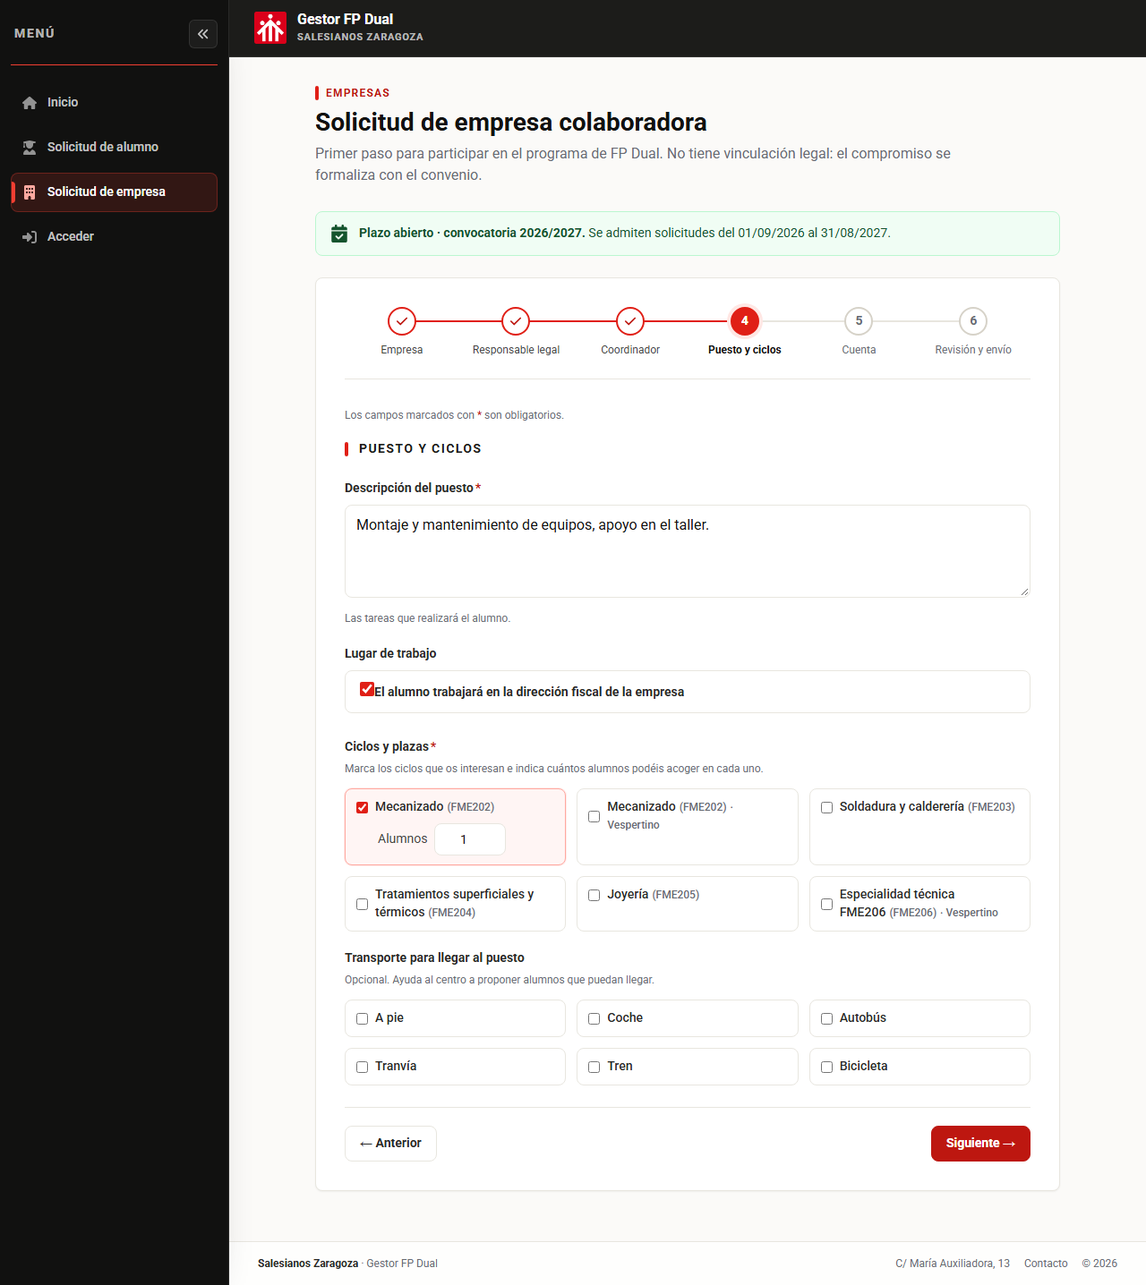
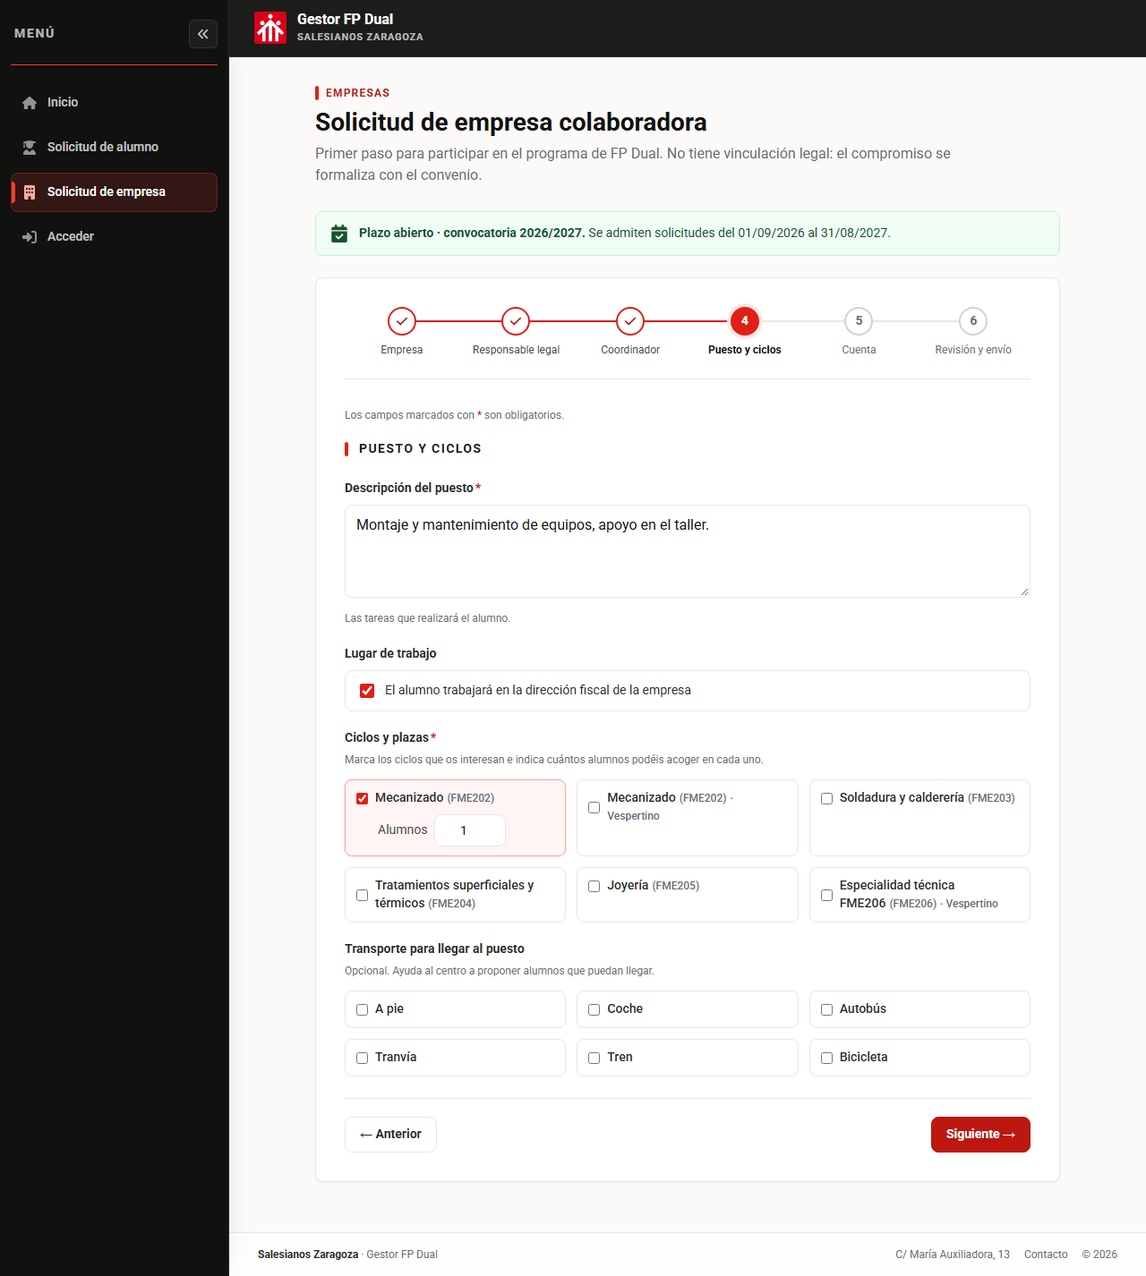
docs: manual and state transitions for baja, company review and student password reset; issues log updated

diff --git a/docs/MANUAL_DE_USUARIO.md b/docs/MANUAL_DE_USUARIO.md
@@ -19,7 +19,7 @@ _Versión del manual: 27/10/2026. Describe la aplicación tal y como funciona en
 4. [Solicitudes públicas (alumnos y empresas nuevos)](#solicitudes-publicas)
    - [Comprobar si el plazo está abierto](#plazo) · [Solicitud de alumno](#solicitud-alumno) · [Solicitud de empresa](#solicitud-empresa) · [Después de enviar](#despues-enviar)
 5. [Manual del administrador](#administrador)
-   - [Panel](#panel) · [Convocatorias](#convocatorias) · [Alumnos](#staff-alumnos) · [Empresas](#staff-empresas) · [Reservas](#staff-reservas) · [Documentos](#staff-documentos) · [Plantillas](#plantillas) · [Cuentas y contraseñas](#cuentas)
+   - [Panel](#panel) · [Convocatorias](#convocatorias) · [Alumnos](#staff-alumnos) · [Empresas](#staff-empresas) · [Reservas](#staff-reservas) · [Documentos](#staff-documentos) · [Plantillas](#plantillas) · [Cuentas y contraseñas](#cuentas) · [Dar de baja](#baja)
 6. [Manual del coordinador](#coordinador)
 7. [Manual de empresa](#empresa)
    - [Portal de la empresa](#portal-empresa) · [Datos y cambios](#empresa-datos) · [Ciclos y plazas](#empresa-plazas) · [Tutores](#empresa-tutores) · [Alumnos disponibles y reservas](#empresa-reservar) · [Documentos y firmas](#empresa-documentos) · [Nueva convocatoria](#empresa-reaplicar)
@@ -194,6 +194,7 @@ Los estados se muestran con etiquetas de color: **verde** = correcto o terminado
 | Pendiente de revisión | El centro todavía no la ha revisado. |
 | Validada | Aceptada. El alumno ya puede ser reservado o la empresa ya puede reservar. |
 | Rechazada | No aceptada. Se muestra el motivo. |
+| Dada de baja | Administración la ha retirado del programa. Su cuenta del portal está desactivada ([más información](#baja)). |
 
 **Reservas**
 
@@ -418,6 +419,13 @@ En **«Estado de la solicitud»**:
 
 Una vez validado, el alumno aparece en «Alumnos disponibles» para las empresas de su ciclo.
 
+#### Cuenta y participación — 🔒 Solo Administración
+
+Debajo del estado, Administración ve el bloque **«Cuenta y participación»**: el usuario del portal (el DNI/NIE) y si la cuenta está activa. Desde aquí puede **«Resetear contraseña»** ([cómo funciona](#cuentas)) y **«Dar de baja»** o **«Reactivar»** al alumno ([cómo funciona](#baja)).
+
+![Bloque Cuenta y participación de un alumno con los botones Resetear contraseña y Dar de baja](manual/imagenes/alumno-cuenta-baja.png)
+_Bloque «Cuenta y participación», visible solo para Administración._
+
 #### Reabrir una solicitud rechazada
 
 Si una solicitud se rechazó por error o el alumno ha corregido el problema, pulsa **«Reabrir solicitud»**. El motivo es opcional. La solicitud vuelve a **Pendiente de revisión**. Solo se puede reabrir en la **convocatoria activa**.
@@ -450,7 +458,7 @@ _Pestaña «Información» de una empresa._
 
 #### Validar la empresa: el convenio
 
-La solicitud de una empresa **se valida al validar su convenio firmado**. No hay un botón aparte para validar la empresa.
+La solicitud de una empresa **se valida al validar su convenio firmado**: es el camino normal.
 
 1. Despliega la tarjeta. En **«Convenio»** verás su estado: «Convenio pendiente de generar», «Convenio pendiente de validar» o «Convenio validado».
 2. Pulsa **«Ver convenio»** (o **«✓ Validar»**) para abrirlo.
@@ -458,6 +466,18 @@ La solicitud de una empresa **se valida al validar su convenio firmado**. No hay
 4. Si no es correcto, pulsa **«Rechazar convenio»** y escribe el motivo. La empresa tendrá que subir uno nuevo. **La solicitud de la empresa no cambia de estado.**
 
 Si aparece «Convenio pendiente de generar», hay que generarlo desde [Documentos](#staff-documentos) (necesita una [plantilla](#plantillas) activa).
+
+#### Estado de la solicitud: rechazar, reabrir o validar
+
+Debajo del convenio está el bloque **«Estado de la solicitud»**, con la etiqueta del estado:
+
+- **«Rechazar solicitud»** (solicitudes pendientes): rechaza la participación de la empresa en esta convocatoria, no solo el convenio. Hay que escribir un motivo, que la empresa verá en su portal. Una empresa rechazada no puede reservar alumnos.
+- **«Reabrir solicitud»** (solicitudes rechazadas, solo en la convocatoria activa): vuelve a «Pendiente de revisión». El motivo es opcional.
+- **«Validar solicitud»**: solo aparece si el convenio ya está validado pero la solicitud sigue pendiente.
+- 🔒 **Solo Administración**: **«Dar de baja»** o **«Reactivar»** ([cómo funciona](#baja)).
+
+![Bloque Estado de la solicitud de una empresa validada, con el botón Dar de baja](manual/imagenes/empresa-estado-solicitud.png)
+_«Estado de la solicitud» de una empresa, visto por Administración._
 
 #### Editar los datos de una empresa
 
@@ -626,9 +646,46 @@ _Plantillas vistas por Administración (en este ejemplo todavía no hay ninguna 
 ### 5.8 Cuentas y contraseñas
 
 - Las **cuentas de alumnos y empresas se crean solas** al enviar la solicitud pública. No hay una pantalla para crear cuentas a mano.
-- 🔒 **Solo Administración** puede restablecer la contraseña de una **empresa**, desde su tarjeta en Empresas ([cómo](#staff-empresas)).
-- La aplicación **no tiene** una pantalla para restablecer la contraseña de un **alumno** ni del personal del centro. Si un alumno la olvida, consulta con el responsable técnico de la aplicación.
+- 🔒 **Solo Administración** puede restablecer contraseñas:
+  - de una **empresa**, en su tarjeta de Empresas, bloque «Credenciales de acceso» ([cómo](#staff-empresas));
+  - de un **alumno**, en su tarjeta de Alumnos, bloque «Cuenta y participación».
+
+  En los dos casos pulsa **«Resetear contraseña»**. La contraseña temporal se muestra **una sola vez y durante 2 minutos**: cópiala y comunícasela a la persona por un medio seguro. Al entrar tendrá que [cambiarla](#contrasena-temporal).
+- La aplicación **no tiene** una pantalla para restablecer la contraseña del personal del centro. Si alguien del centro la olvida, consulta con el responsable técnico de la aplicación.
 - Cada persona puede [cambiar su propia contraseña](#cambiar-contrasena).
+
+<a id="baja"></a>
+
+### 5.9 Dar de baja a un alumno o a una empresa — 🔒 Solo Administración
+
+Sirve para **retirar del programa** a un alumno o a una empresa en una convocatoria: por ejemplo, un alumno que abandona el ciclo o una empresa que ya no puede acoger alumnos.
+
+**Qué pasa al dar de baja**
+
+1. La solicitud pasa a **«Dada de baja»**.
+2. Su **cuenta del portal se desactiva**: no podrá entrar (si tenía la sesión abierta, se cierra en cuanto haga algo). En una empresa se desactivan todas sus cuentas.
+3. **Todas sus reservas activas, pendientes y confirmadas, se cancelan** con el motivo de la baja. Las plazas quedan libres y se avisa por correo a la otra parte: a las empresas, si se da de baja un alumno; a los alumnos, si se da de baja una empresa.
+
+**Cómo se hace**
+
+1. Despliega la tarjeta del alumno (Alumnos › «Cuenta y participación») o de la empresa (Empresas › «Estado de la solicitud»).
+2. Pulsa **«Dar de baja»**. La ventana muestra **qué reservas se cancelarán**; las confirmadas se marcan en rojo.
+3. Escribe el **«Motivo de la baja»** (obligatorio) y pulsa **«Dar de baja»**.
+
+El aviso final indica cuántas reservas se han cancelado. Si alguna no se ha podido cancelar, el aviso lo dice: cancélala a mano desde su panel ([Cancelar una reserva](#staff-reservas)).
+
+![Ventana Dar de baja al alumno con la reserva confirmada que se cancelará y el campo Motivo de la baja](manual/imagenes/dar-de-baja.png)
+_Antes de confirmar, la ventana muestra las reservas que se van a cancelar._
+
+**Reactivar**
+
+En una solicitud dada de baja se ven la fecha, el motivo y el botón **«Reactivar»**. Al reactivar:
+
+- la solicitud **vuelve al estado que tenía antes de la baja** (pendiente, validada o rechazada);
+- la cuenta del portal se vuelve a activar;
+- las **reservas canceladas no se recuperan**: si hace falta, hay que crearlas de nuevo.
+
+Las solicitudes dadas de baja se encuentran con el filtro **«Solicitud: Dada de baja»** en Alumnos y en Empresas.
 
 ---
 
@@ -644,17 +701,20 @@ El perfil de Coordinación hace **el mismo trabajo diario** que Administración:
 | Validar y rechazar documentos y solicitudes; reabrir solicitudes | ✅ | ✅ |
 | Gestionar reservas: tipo de contrato, firmas, confirmar, cancelar, reasignar | ✅ | ✅ |
 | Editar datos de empresas, aprobar o rechazar cambios, cambiar plazas | ✅ | ✅ |
+| Rechazar y reabrir solicitudes de empresa | ✅ | ✅ |
 | Consultar convocatorias | ✅ | ✅ |
 | **Crear y editar convocatorias** | ✅ | ❌ |
 | Consultar y descargar plantillas | ✅ | ✅ |
 | **Subir o reemplazar plantillas** | ✅ | ❌ |
-| **Restablecer contraseñas de empresas** | ✅ | ❌ |
+| **Restablecer contraseñas de empresas y alumnos** | ✅ | ❌ |
+| **Dar de baja y reactivar alumnos y empresas** | ✅ | ❌ |
 
 En la práctica, el coordinador:
 
 - En **Convocatorias** solo ve la lista, sin el formulario «Nueva convocatoria» ni el botón «Editar».
 - En **Documentos › Plantillas** no tiene el botón «Subir plantilla».
-- En las tarjetas de **Empresas** no tiene el botón «Resetear contraseña».
+- En las tarjetas de **Empresas** no tiene «Resetear contraseña» ni «Dar de baja».
+- En las tarjetas de **Alumnos** no ve el bloque «Cuenta y participación».
 
 Si necesitas una de estas acciones, pídesela a Administración.
 
@@ -994,7 +1054,13 @@ Cada perfil solo ve y cambia lo que le corresponde. Si no ves un botón o te apa
 
 - Las empresas no ven las reservas de otras empresas ni el Anexo DGA de los alumnos.
 - Los alumnos no pueden modificar sus datos personales.
-- Coordinación no puede crear convocatorias, subir plantillas ni restablecer contraseñas.
+- Coordinación no puede crear convocatorias, subir plantillas, restablecer contraseñas ni dar de baja.
+
+### Me han dado de baja / ya no puedo entrar
+
+Si el centro te ha **dado de baja** del programa, tu cuenta del portal está desactivada y al entrar verás «La cuenta está desactivada. Contacte con el administrador.» Tus reservas activas se han cancelado. Si crees que es un error, ponte en contacto con el centro: Administración puede **reactivar** tu solicitud, pero las reservas canceladas no vuelven solas.
+
+**¿Qué pasa con las reservas de una empresa dada de baja?** Se cancelan todas. Si eres un alumno afectado, recibirás un aviso y **tu solicitud sigue abierta** para otras empresas.
 
 <a id="faq-contrasena"></a>
 
@@ -1003,7 +1069,8 @@ Cada perfil solo ve y cambia lo que le corresponde. Si no ves un botón o te apa
 No hay recuperación automática por correo.
 
 - **Empresas**: pedid al centro que Administración restablezca la contraseña. Os dará una contraseña temporal que tendréis que [cambiar al entrar](#contrasena-temporal).
-- **Alumnos y personal del centro**: contacta con el centro. La aplicación no tiene una pantalla para restablecer estas contraseñas, así que la solución depende del responsable técnico.
+- **Alumnos**: pide al centro que Administración te restablezca la contraseña. Te dará una temporal que tendrás que cambiar al entrar.
+- **Personal del centro**: la aplicación no tiene una pantalla para restablecer vuestras contraseñas; consulta con el responsable técnico.
 
 ### Otras dudas habituales
 
@@ -1012,4 +1079,4 @@ No hay recuperación automática por correo.
 - **Mi solicitud de empresa sigue pendiente aunque he subido el convenio.** Se valida cuando el centro **valida** el convenio, no al subirlo. Si el centro lo rechaza, veréis el motivo y tendréis que subir uno nuevo.
 - **El alumno es menor de edad.** El formulario pide los datos del tutor o tutora legal en el paso «Datos personales».
 - **Han regenerado un anexo que ya había firmado.** Al regenerarlo se crea una versión nueva y hay que volver a firmarla.
-- **¿Una solicitud rechazada se puede recuperar?** En los alumnos, el centro puede reabrirla durante la convocatoria activa. Si es tu caso, contacta con el centro.
+- **¿Una solicitud rechazada se puede recuperar?** Sí: el centro puede reabrirla durante la convocatoria activa, tanto la de un alumno como la de una empresa. Si es tu caso, contacta con el centro.

diff --git a/docs/manual/INCIDENCIAS_DETECTADAS.md b/docs/manual/INCIDENCIAS_DETECTADAS.md
@@ -1,26 +1,27 @@
 # Incidencias detectadas al redactar el manual
 
-_27/10/2026 · rama `phase-5-design-polish`. Revisión de documentación: **no se ha cambiado nada de la aplicación**. Cada punto indica cómo se detectó._
+_27/10/2026 · rama `phase-5-design-polish`. Lista de lo que se encontró al documentar y en qué ha quedado cada punto._
 
-## Errores de la interfaz
+## Corregidas
 
-1. **Una reserva cancelada sigue ofreciendo subir el Calendario.** En el panel de una reserva **Cancelada**, el texto dice «La reserva está cancelada: sus documentos solo se pueden consultar», pero el Calendario aparece como «Pendiente de la empresa: subir Calendario» con el cuadro «Seleccionar PDF de Calendario» y el botón «Subir». El servidor rechaza esa subida, así que el error está en lo que se muestra. Visto en el portal de la empresa de prueba A. _(Navegador.)_
-2. **Casilla «El alumno trabajará en la dirección fiscal de la empresa» (formulario de empresa, paso 4).** La casilla vuelve a quedar pegada al texto, y el texto sale en negrita. La regla `.field > label` (`display: block`, `font-semibold`) de `styles/forms.css` anula las clases de esa etiqueta, que es hija directa del `fieldset.field`. Afecta al cambio de diseño n.º 1 de esta misma rama. _(Captura `solicitud-empresa-puesto.png`.)_
-3. **Nombre de pestaña equivocado en «Tutores» (portal de empresa).** El texto dice «El acceso al portal sigue siendo el CIF, en Mis datos» y «Para cambiar sus datos usa «Mis datos › Editar datos»», pero la pestaña se llama **«Datos de la empresa»**. _(Código: `pages/CompanyView/TutoresEmpresa.jsx`.)_
+1. **Una reserva cancelada seguía ofreciendo subir el Calendario.** Ahora los documentos de una reserva cancelada solo se pueden consultar: sin «Subir», «Firmar», «Generar» ni acción pendiente (`reservaDocumentos` en `documentosWorkflow.js`). Comprobado en el navegador con la reserva cancelada de la empresa de prueba A.
+2. **Casilla «El alumno trabajará en la dirección fiscal de la empresa».** La regla `.field > label` de `forms.css` anulaba su diseño. El `fieldset` ya no usa la clase `field`; la casilla vuelve a tener su espacio y el texto ya no sale en negrita. Captura `solicitud-empresa-puesto.png` rehecha.
+3. **Pestaña «Tutores» del portal de empresa.** Hablaba de «Mis datos»; ahora dice «Datos de la empresa», que es el nombre real de la pestaña.
+4. **No se podía rechazar ni reabrir la solicitud de una empresa.** Nuevo bloque «Estado de la solicitud» en la tarjeta de Empresas, para todo el personal: «Rechazar solicitud» (con motivo), «Reabrir solicitud» y «Validar solicitud» (solo si el convenio ya está validado).
+5. **No había forma de restablecer la contraseña de un alumno.** Nuevo bloque «Cuenta y participación» en la tarjeta del alumno, solo para Administración, con «Resetear contraseña». Sigue sin haber pantalla para las contraseñas del personal del centro.
+6. **Convocatorias solapadas.** El inicio de «2027/2028» pasa del 29/08/2027 al 01/09/2027 (con tu aprobación, desde la propia función «Editar» de la aplicación).
 
-## Funciones que faltan en la interfaz (el servidor sí las tiene)
+## Nuevo: dar de baja
 
-4. **El personal no puede rechazar ni reabrir la solicitud de una empresa desde la aplicación.** Existen `POST /solicitudes/empresa/:id/rechazar` y `/reabrir`, pero ninguna pantalla los usa. Rechazar el convenio no cambia el estado de la solicitud. Por eso el manual no explica cómo rechazar una empresa. _(Código.)_
-5. **No hay pantalla para restablecer la contraseña de un alumno ni del personal.** «Resetear contraseña» solo aparece en las tarjetas de empresa. La pantalla de acceso dice «Si olvidaste tu contraseña, contacta con el administrador», pero Administración no tiene cómo hacerlo para un alumno. _(Código.)_
+«Dar de baja» y «Reactivar» para alumnos y empresas, solo Administración (manual, §5.9). Necesita la migración `db/migrations/016_estado_baja.sql`, que añade el estado «BAJA»; sin ella, el botón responde «falta aplicar la migración 016». La migración está escrita, con su rollback, pero **todavía no se ha aplicado**.
 
-## Datos de prueba (no son errores de la aplicación)
+## Siguen abiertas (datos de prueba, no errores de la aplicación)
 
-6. **No hay plantillas activas** en la base de datos de desarrollo (Convenio, Anexo II y Anexo III salen «Sin plantilla»), así que no se puede generar ningún documento. Por eso hay convenios en «Pendiente de generar».
-7. **Solicitudes validadas con documentos sin subir.** Varios alumnos de prueba están «Validada» con el CV o el Anexo DGA en «Pendiente de subir», algo que la aplicación normal no permite. Se crearon directamente como datos de prueba (`seedPruebas.js`). Aparecen en las capturas `alumno-detalle.png` y `portal-alumno.png`; el manual avisa al principio de que las capturas usan datos de prueba.
-8. **Convocatorias que se solapan.** «2027/2028» empieza el 29/08/2027 y «2026/2027» termina el 31/08/2027. La aplicación ya no permite crear convocatorias que se solapen; estas vienen de datos anteriores. Conviene corregir las fechas antes de agosto de 2027.
+7. **No hay plantillas activas** en la base de datos de desarrollo (Convenio, Anexo II y Anexo III salen «Sin plantilla»), así que no se puede generar ningún documento. Hacen falta los DOCX oficiales del centro.
+8. **Solicitudes validadas con documentos sin subir.** Varios alumnos de prueba están «Validada» con el CV o el Anexo DGA en «Pendiente de subir». Se crearon directamente como datos de prueba (`seedPruebas.js`); la aplicación normal no lo permite.
 
 ## Qué se comprobó y cómo
 
-- **Navegador** (Chrome sin ventana, con las cuentas de prueba de `backend/.pruebas.local.json`, solo consultando): todas las pantallas de las 31 capturas, los menús de cada perfil, los botones que se ven en ellas y el recorrido del formulario de empresa hasta «Revisión y envío» sin enviarlo. No se envió, validó, firmó ni modificó nada.
-- **Solo en el código** (no probado en el navegador en esta revisión): validar o rechazar documentos y solicitudes, reabrir, generar y regenerar, firmar, confirmar, cancelar y reasignar reservas, cambio obligatorio de contraseña, reaplicación de empresas, cambios de datos y su aprobación, reducción de plazas, el bloqueo tras intentos fallidos, la caducidad de la sesión y el formulario con el plazo cerrado. El ciclo completo de una reserva (tipo de contrato, anexo, firmas, validación, confirmación y reasignación) sí se probó en el navegador en la fase 4 ([PHASE_4_REPORT.md](../PHASE_4_REPORT.md), §1). El resto se describe según el código actual.
-- **Correos:** el manual no promete correos concretos. En desarrollo el envío está desactivado por defecto (`MAIL_MODE=log`).
+- **Navegador** (Chrome sin ventana, con las cuentas de prueba de `backend/.pruebas.local.json`): las capturas del manual, la reserva cancelada sin acciones, los bloques nuevos de Alumnos y Empresas, y la ventana «Dar de baja» abierta (solo consulta qué reservas se cancelarían). No se ha dado de baja, rechazado ni restablecido nada en la base de datos.
+- **Pruebas automáticas**: `backend/test/phase5.test.js` (7 pruebas de baja y reactivación) y el resto de pruebas de backend y frontend.
+- **Solo en el código** (no probado en el navegador en esta revisión): validar o rechazar documentos y solicitudes, reabrir, generar y regenerar, firmar, confirmar, cancelar y reasignar reservas, cambio obligatorio de contraseña, reaplicación de empresas, cambios de datos y su aprobación, reducción de plazas, el bloqueo tras intentos fallidos, la caducidad de la sesión y el formulario con el plazo cerrado. El ciclo completo de una reserva se probó en el navegador en la fase 4 ([PHASE_4_REPORT.md](../PHASE_4_REPORT.md), §1).

diff --git a/docs/manual/CAPTURAS_PENDIENTES.md b/docs/manual/CAPTURAS_PENDIENTES.md
@@ -1,6 +1,6 @@
 # Capturas pendientes del manual de usuario
 
-El [manual](../MANUAL_DE_USUARIO.md) ya incluye 31 capturas reales, hechas el 27/10/2026 con las cuentas y los datos de prueba de la base de datos de desarrollo. Las de esta lista no se pudieron hacer **sin modificar datos**: hacen falta reservas, documentos o cuentas en un estado que los datos de prueba no tienen, o un archivo PDF que se pueda mostrar.
+El [manual](../MANUAL_DE_USUARIO.md) ya incluye 34 capturas reales, hechas el 27/10/2026 con las cuentas y los datos de prueba de la base de datos de desarrollo. Las de esta lista no se pudieron hacer **sin modificar datos**: hacen falta reservas, documentos o cuentas en un estado que los datos de prueba no tienen, o un archivo PDF que se pueda mostrar.
 
 El manual ya se entiende sin ellas. Para añadir una:
 
@@ -136,7 +136,17 @@ El manual ya se entiende sin ellas. Para añadir una:
 - **Apartado:** 5.4 Empresas → «Restablecer la contraseña de una empresa»
 - **Rol:** Administración
 - **Dónde:** Empresas → tarjeta de una empresa → «Credenciales de acceso»
-- **Qué mostrar:** el bloque «Credenciales de acceso» con el usuario (CIF) y el botón «Resetear contraseña». **Haz la captura antes de pulsarlo** y no muestres nunca una contraseña.
+- **Qué mostrar:** el bloque con el usuario (CIF) y el botón «Resetear contraseña». **Haz la captura antes de pulsarlo** y no muestres nunca una contraseña. (El equivalente del alumno ya está en `alumno-cuenta-baja.png`.)
 - **Datos necesarios:** ninguno.
 - **Pie de imagen:** «Solo Administración puede restablecer la contraseña de una empresa.»
 - **Markdown para insertar:** `![Bloque Credenciales de acceso con el botón Resetear contraseña](manual/imagenes/resetear-contrasena.png)`
+
+## 14. `reactivar.png` — Opcional
+
+- **Apartado:** 5.9 Dar de baja → «Reactivar»
+- **Rol:** Administración
+- **Dónde:** Alumnos o Empresas → filtro «Solicitud: Dada de baja» → tarjeta desplegada
+- **Qué mostrar:** el recuadro «Dada de baja el … Motivo: …», la etiqueta «Dada de baja» y el botón «Reactivar».
+- **Datos necesarios:** aplicar la migración 016 y dar de baja una solicitud de prueba.
+- **Pie de imagen:** «Una solicitud dada de baja, con su motivo y el botón Reactivar.»
+- **Markdown para insertar:** `![Solicitud dada de baja con el botón Reactivar](manual/imagenes/reactivar.png)`

diff --git a/docs/STATE_TRANSITIONS.md b/docs/STATE_TRANSITIONS.md
@@ -10,7 +10,9 @@ _Enforced by the backend (`backend/src/services/estadoReglas.js`, plus the proce
 | PENDIENTE | Validate 📝 | VALIDADO | Staff | **Student:** current CV and Anexo DGA validated (Node and `sp_validar_solicitud_alumno`). **Company:** current CONVENIO validated and at least one ciclo (`sp_validar_solicitud_empresa`). Validating a signed convenio of a PENDIENTE company also validates the application in the same transaction. |
 | PENDIENTE | Reject 📝 | RECHAZADO | Staff | A reason is required. |
 | RECHAZADO | Reopen 📝 | PENDIENTE | Staff | Active convocatoria only (D7). The rejection reason is cleared from the row; it stays in the audit trail. |
-| VALIDADO | — | — | — | No transition through the API. A rejected convenio does **not** change a validated company (D6 is open). |
+| VALIDADO | — | — | — | No review transition (only Baja below). A rejected convenio does **not** change a validated company (D6 is open). |
+| PENDIENTE / VALIDADO / RECHAZADO | Baja 📝 | BAJA | **ADMINISTRADOR** | Phase 5, migration 016. A reason is required; it is kept in the event (the row keeps `motivo` NULL, as the triggers require). In the same transaction the portal account is deactivated (student: its user; company: every EMPRESA user of the company). Afterwards every PENDIENTE or CONFIRMADA reservation of the application is cancelled with `sp_cancelar_reserva_admin` 📝 and the other side is notified. |
+| BAJA | Reactivar 📝 | the state before the baja | **ADMINISTRADOR** | Read from the last BAJA event; a RECHAZADO one gets back the reason of its last RECHAZAR event. The account(s) are reactivated. Cancelled reservations are **not** restored. |
 
 ## Reservations (`reserva`)
 
